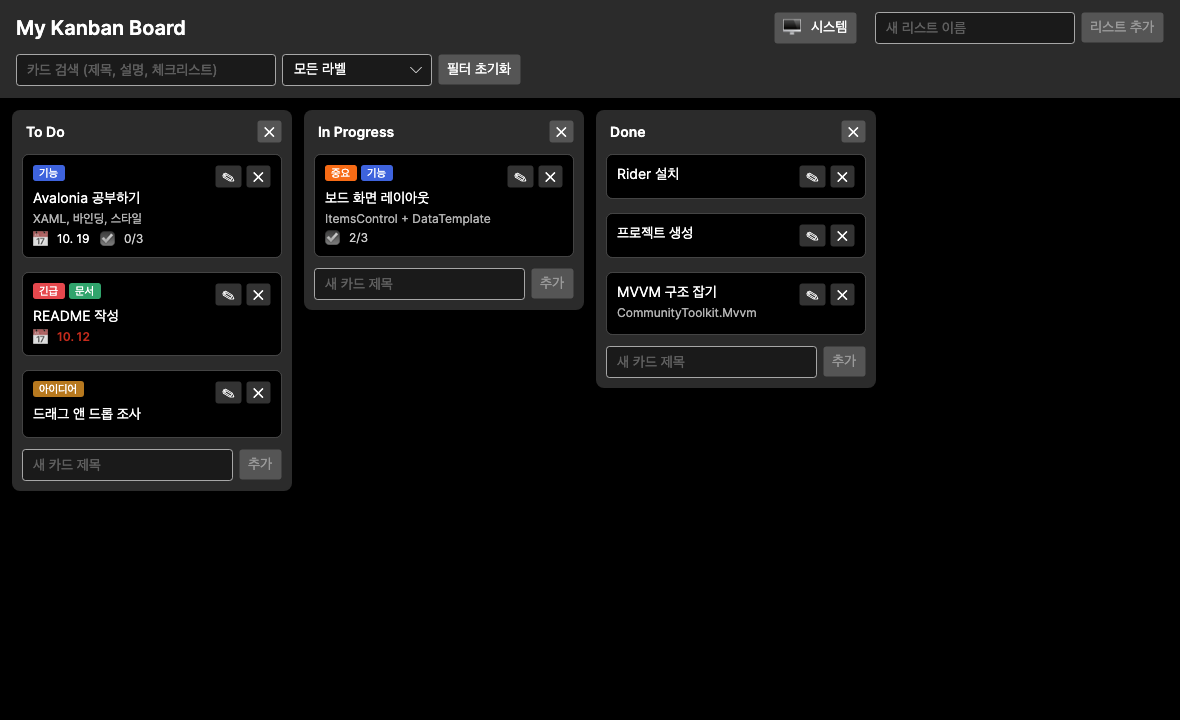
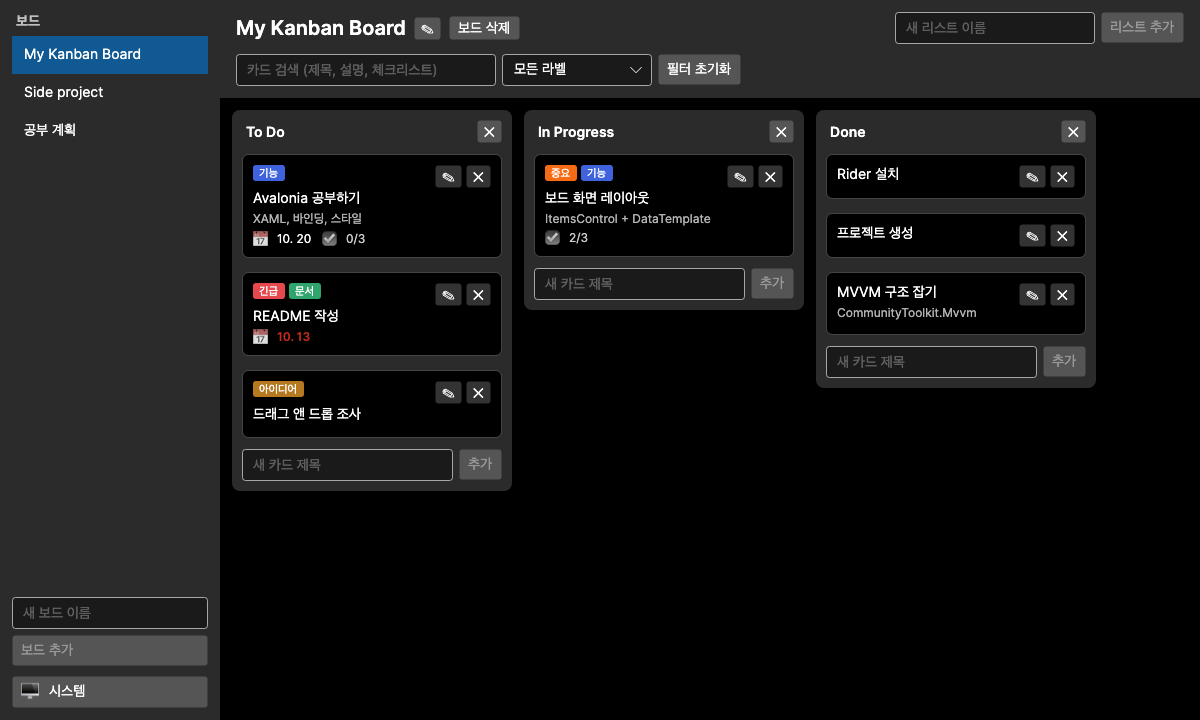
Update README and screenshots for multiple boards

diff --git a/README.md b/README.md
@@ -20,13 +20,14 @@ Avalonia를 학습하면서 단계별로 기능을 쌓아간 개인 프로젝트
 
 ## 기능
 
+- [x] 여러 보드: 사이드바에서 만들기·전환·이름 변경·삭제 (마지막으로 본 보드를 기억)
 - [x] 보드, 리스트, 카드 표시
 - [x] 카드 추가 / 삭제 / 제목 수정
 - [x] 리스트 추가 / 삭제
 - [x] 드래그 앤 드롭으로 카드 순서 변경 및 리스트 간 이동
 - [x] SQLite 저장 (앱을 다시 켜도 보드가 유지됨)
 - [x] 카드 상세: 설명, 마감일, 라벨, 체크리스트
-- [x] 카드 검색(제목·설명·체크리스트)과 라벨 필터
+- [x] 카드 검색(제목·설명·체크리스트)과 라벨 필터 (보드마다 따로)
 - [x] 다크 / 라이트 / 시스템 테마 전환(설정 저장)
 - [x] 저장 실패 시 오류 배너 표시
 
@@ -73,6 +74,7 @@ dotnet test
 ```
 
 - 저장소(SQLite)와 ViewModel 동작은 임시 DB를 만들어 실제로 저장하고 다시 불러오며 검증합니다.
+- 마이그레이션은 "이전 버전 스키마의 DB에 데이터를 넣고 최신으로 올려도 보존되는지"까지 테스트합니다.
 - 화면(XAML)은 Avalonia 헤드리스 렌더러로 그려서, 라벨 표시나 바인딩 오류 같은 문제를 확인합니다.
 - GitHub Actions가 push마다 Ubuntu / Windows / macOS에서 빌드와 테스트를 실행합니다.
 
@@ -85,7 +87,7 @@ Kanban/
 ├── Kanban.Data/          # EF Core DbContext, 저장소 구현, 마이그레이션
 ├── Kanban.Tests/         # xUnit: 저장소, ViewModel, 화면 스모크 테스트
 └── Kanban.App/           # Avalonia UI
-    ├── ViewModels/       # MainWindow, BoardList, Card, CardDetail ...
+    ├── ViewModels/       # MainWindow(보드 목록·설정), Board, BoardList, Card, CardDetail ...
     ├── Views/            # *.axaml
     ├── Messages/         # ViewModel 간 메시지 (OpenCardRequested, ErrorOccurred)
     ├── Services/         # 설정 저장(JSON)
@@ -100,7 +102,7 @@ Kanban/
 
 ## 데이터 저장 위치
 
-사용자 데이터 폴더의 `Kanban/` 아래에 저장됩니다. `kanban.db`는 보드 데이터, `settings.json`은 테마 같은 사용자 설정입니다.
+사용자 데이터 폴더의 `Kanban/` 아래에 저장됩니다. `kanban.db`는 보드 데이터, `settings.json`은 테마와 마지막으로 본 보드 같은 사용자 설정입니다.
 (macOS/Linux: `~/.local/share/Kanban/kanban.db`, Windows: `%LOCALAPPDATA%\Kanban\kanban.db`)
 앱 시작 시 마이그레이션이 자동으로 적용됩니다.
 
@@ -121,4 +123,5 @@ dotnet ef migrations add <이름> --project Kanban.Data --startup-project Kanban
 | 4 | SQLite(EF Core) 저장, 마감일 / 라벨 / 체크리스트 | 완료 |
 | 5 | 테마, 검색 / 필터, 오류 알림, 설정 | 완료 |
 | 마무리 | 단위 테스트(xUnit), GitHub Actions 크로스플랫폼 빌드 | 완료 |
-| 릴리스 | `v*` 태그를 푸시하면 각 OS용 실행 파일을 자동 빌드해 배포 | 워크플로우 준비 완료 |
+| 릴리스 | `v*` 태그를 푸시하면 각 OS용 실행 파일을 자동 빌드해 배포 | v0.1.0 배포 |
+| 확장 1 | 다중 보드 (기존 데이터를 기본 보드로 자동 이전) | 완료 |
